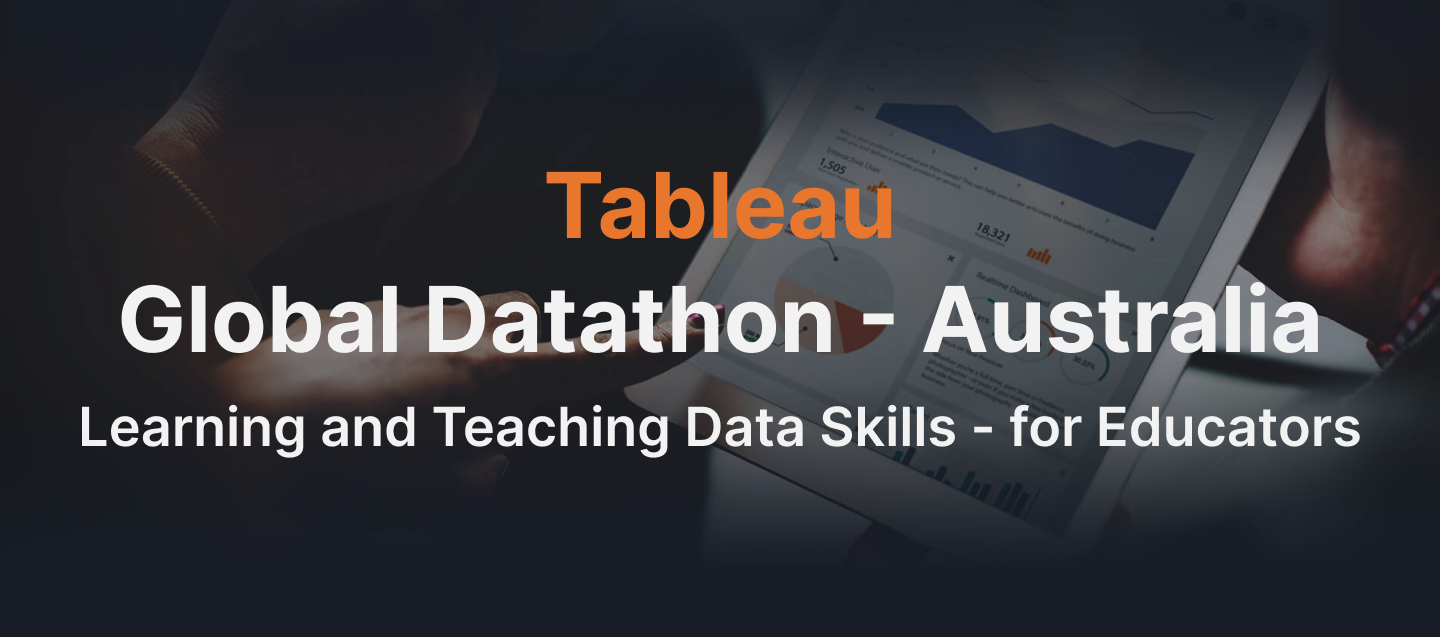
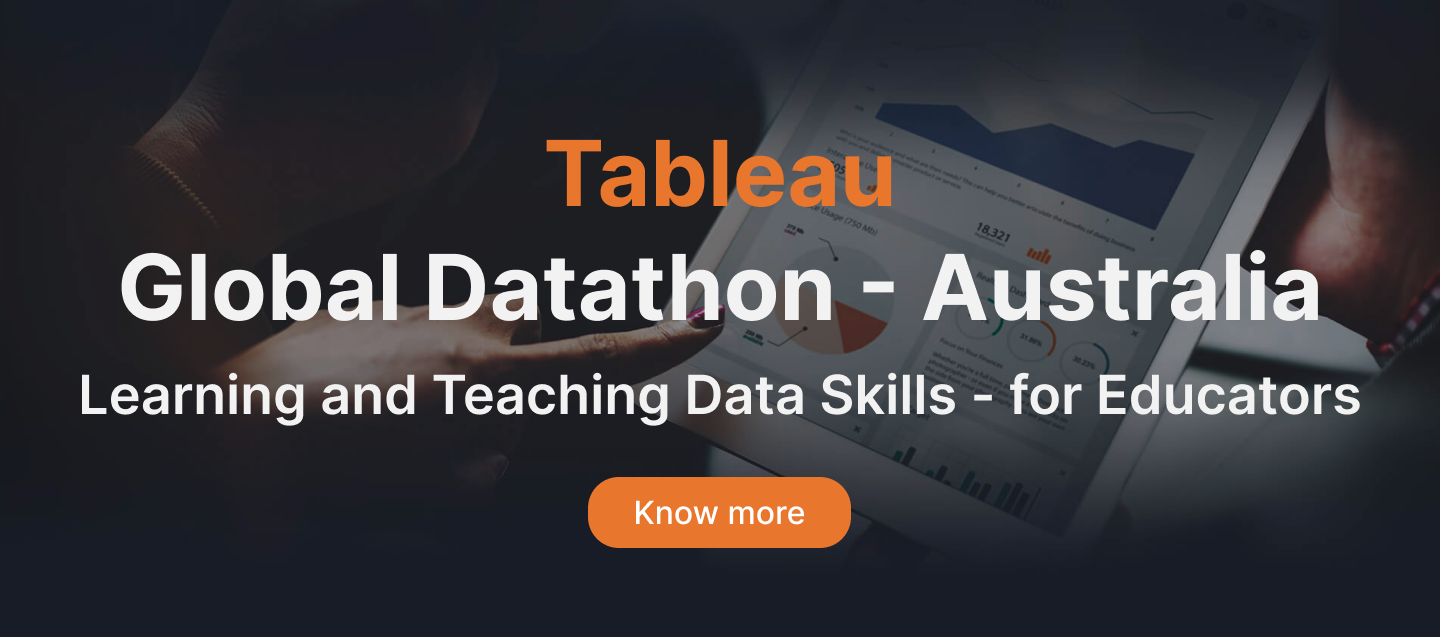
changes

Changed region(s): [[0.0312, 0.2088, 0.9688, 0.7159], [0.4062, 0.7457, 0.5938, 0.865]]

diff --git a/index.html b/index.html
@@ -97,7 +97,7 @@ a[x-apple-data-detectors] {
                    <table width="100%" cellspacing="0" cellpadding="0" role="presentation" style="mso-table-lspace:0pt;mso-table-rspace:0pt;border-collapse:collapse;border-spacing:0px">
                      <tr>
                       <td align="center" style="padding:0;Margin:0;font-size:0px">
-                        <img class="adapt-img" src="assets/email_banner.png" alt style="display:block;border:0;outline:none;text-decoration:none;-ms-interpolation-mode:bicubic" width="600">
+                       <a href="http://rushi-mereddy.github.io/emailer-tableau" target="_blank" rel="noopener noreferrer"><img class="adapt-img" src="assets/email_banner.png" alt style="display:block;border:0;outline:none;text-decoration:none;-ms-interpolation-mode:bicubic" width="600"></a> 
                       </td>
                      </tr>
                    </table></td>
